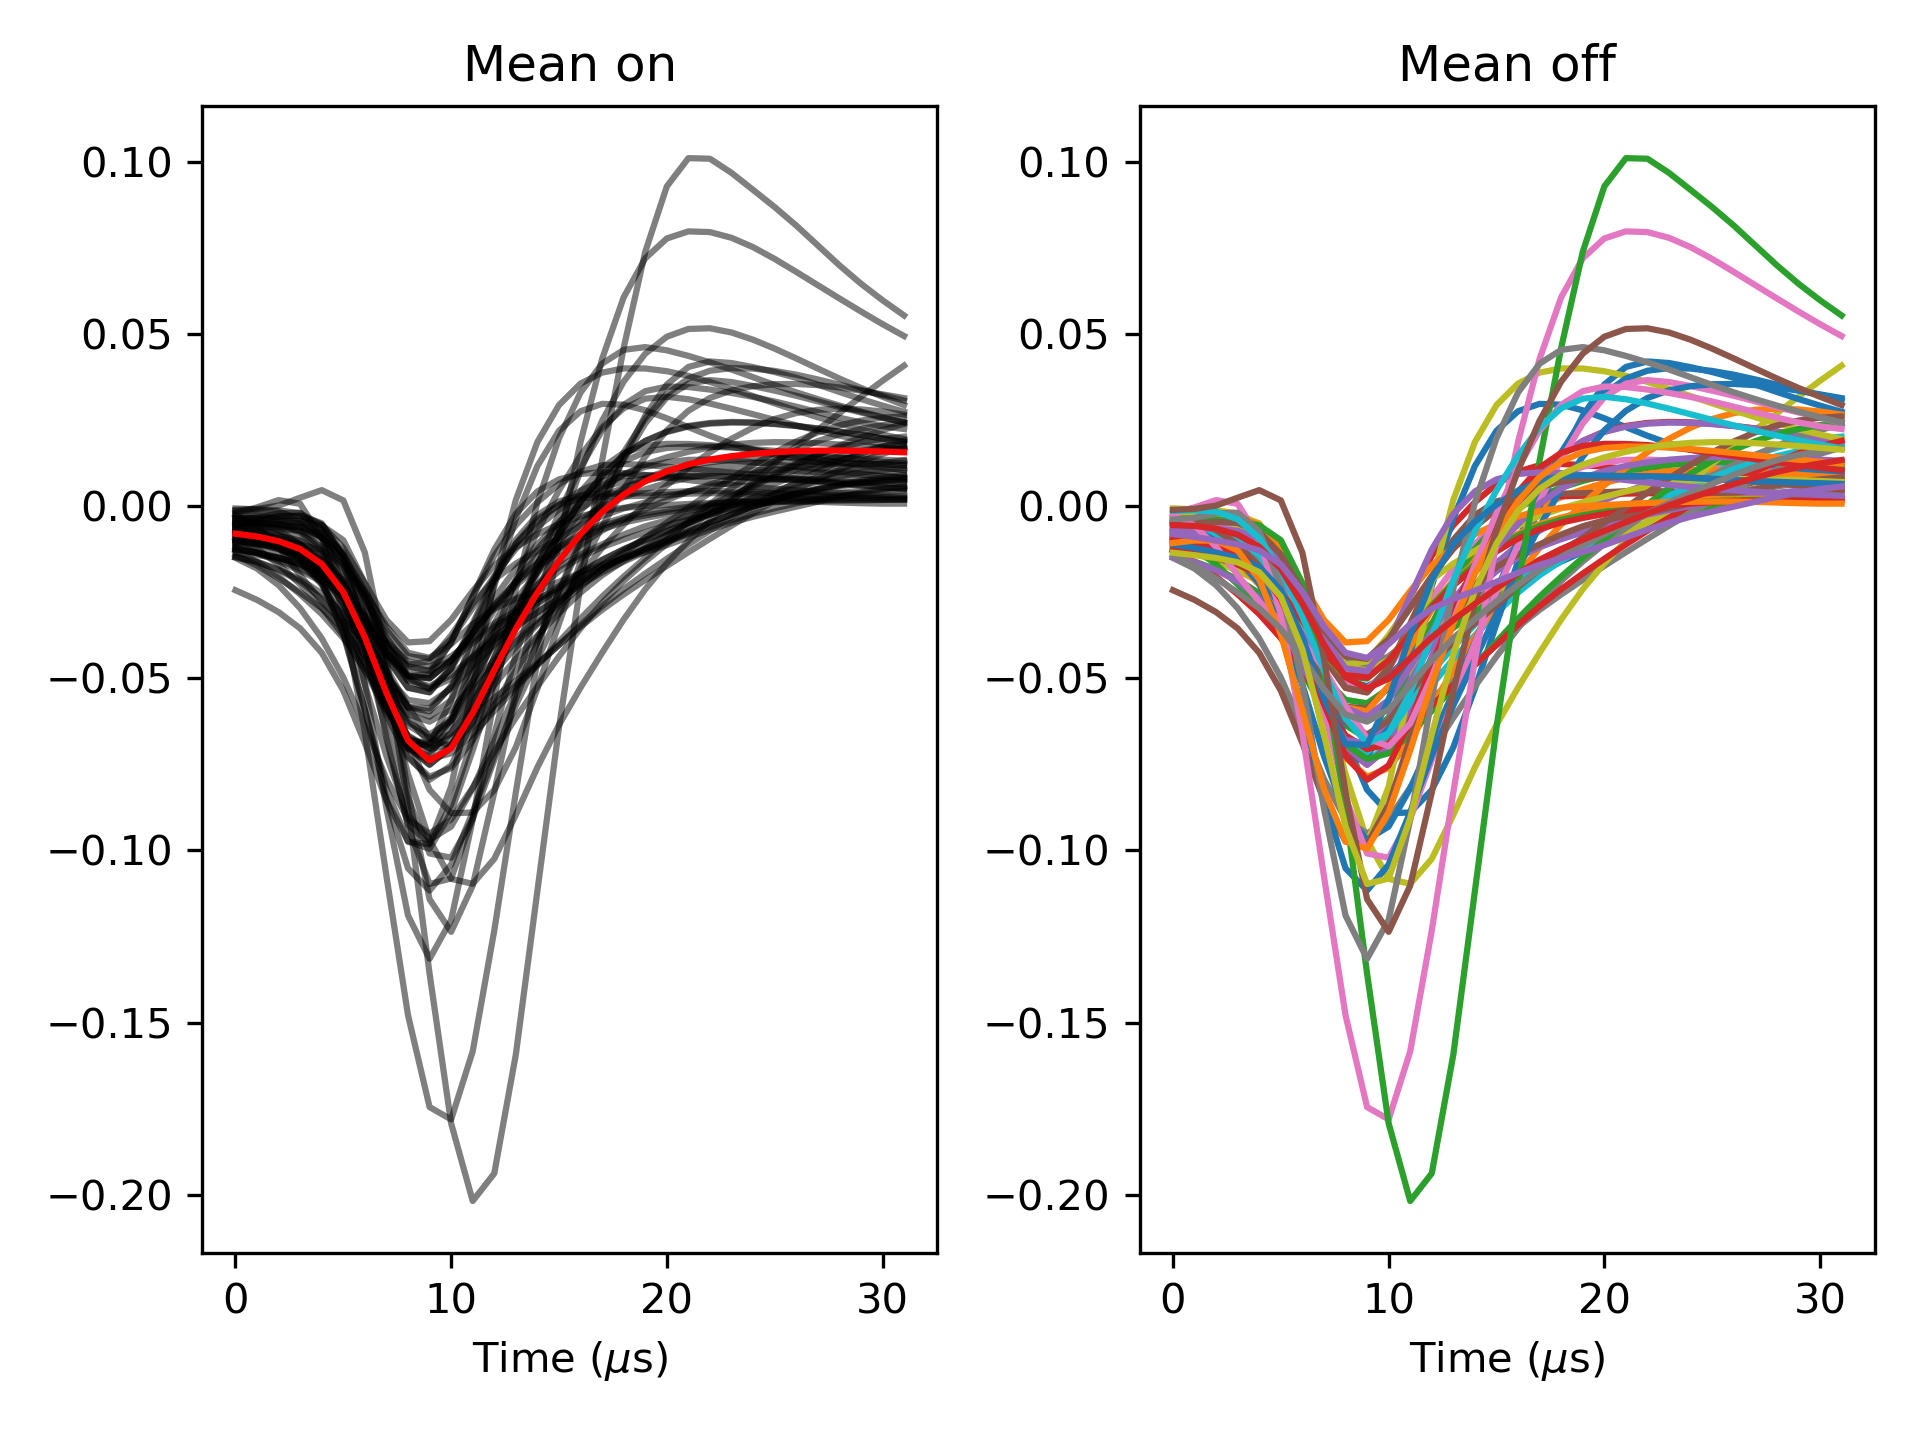
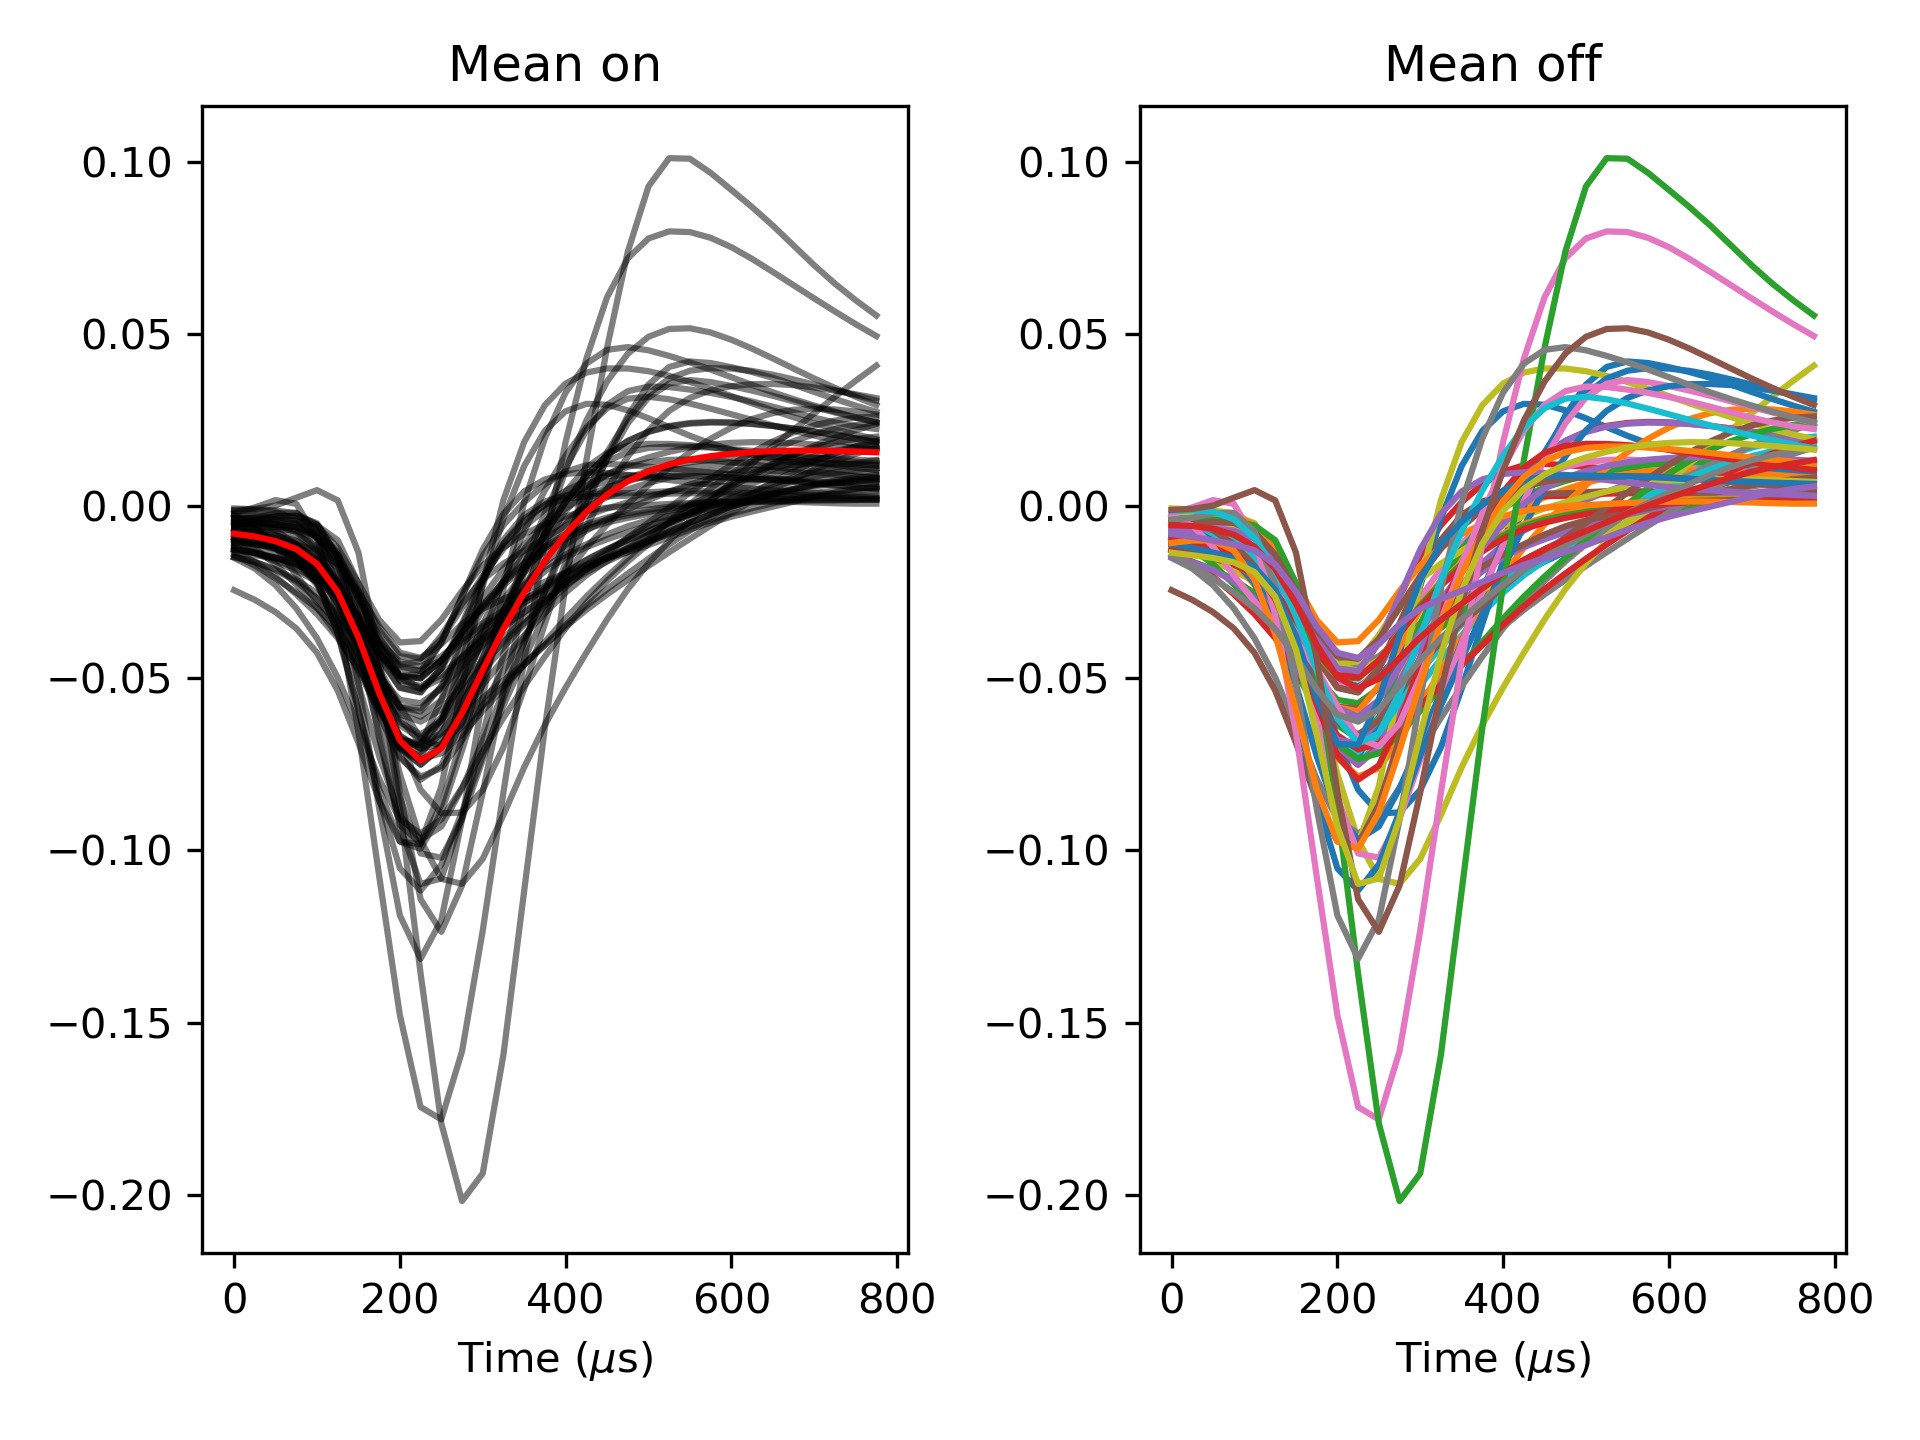
fix xxaxis of plot waveforms

diff --git a/aopy/visualization.py b/aopy/visualization.py
@@ -696,14 +696,14 @@ def plot_waveforms(waveforms, samplerate, plot_mean=True, ax=None):
     if ax is None:
         ax = plt.gca()
     
-    time_axis = (10e6)*waveforms.shape[0]/samplerate
+    time_axis = (1e6)*np.arange(waveforms.shape[0])/samplerate
 
     if plot_mean:
-        ax.plot(waveforms, color='black', alpha=0.5)
+        ax.plot(time_axis, waveforms, color='black', alpha=0.5)
         mean_waveform = np.nanmean(waveforms, axis=1)
-        ax.plot(mean_waveform, color='red')
+        ax.plot(time_axis, mean_waveform, color='red')
     else:
-        ax.plot(waveforms)
+        ax.plot(time_axis, waveforms)
 
     ax.set_xlabel(r'Time ($\mu$s)')
 
